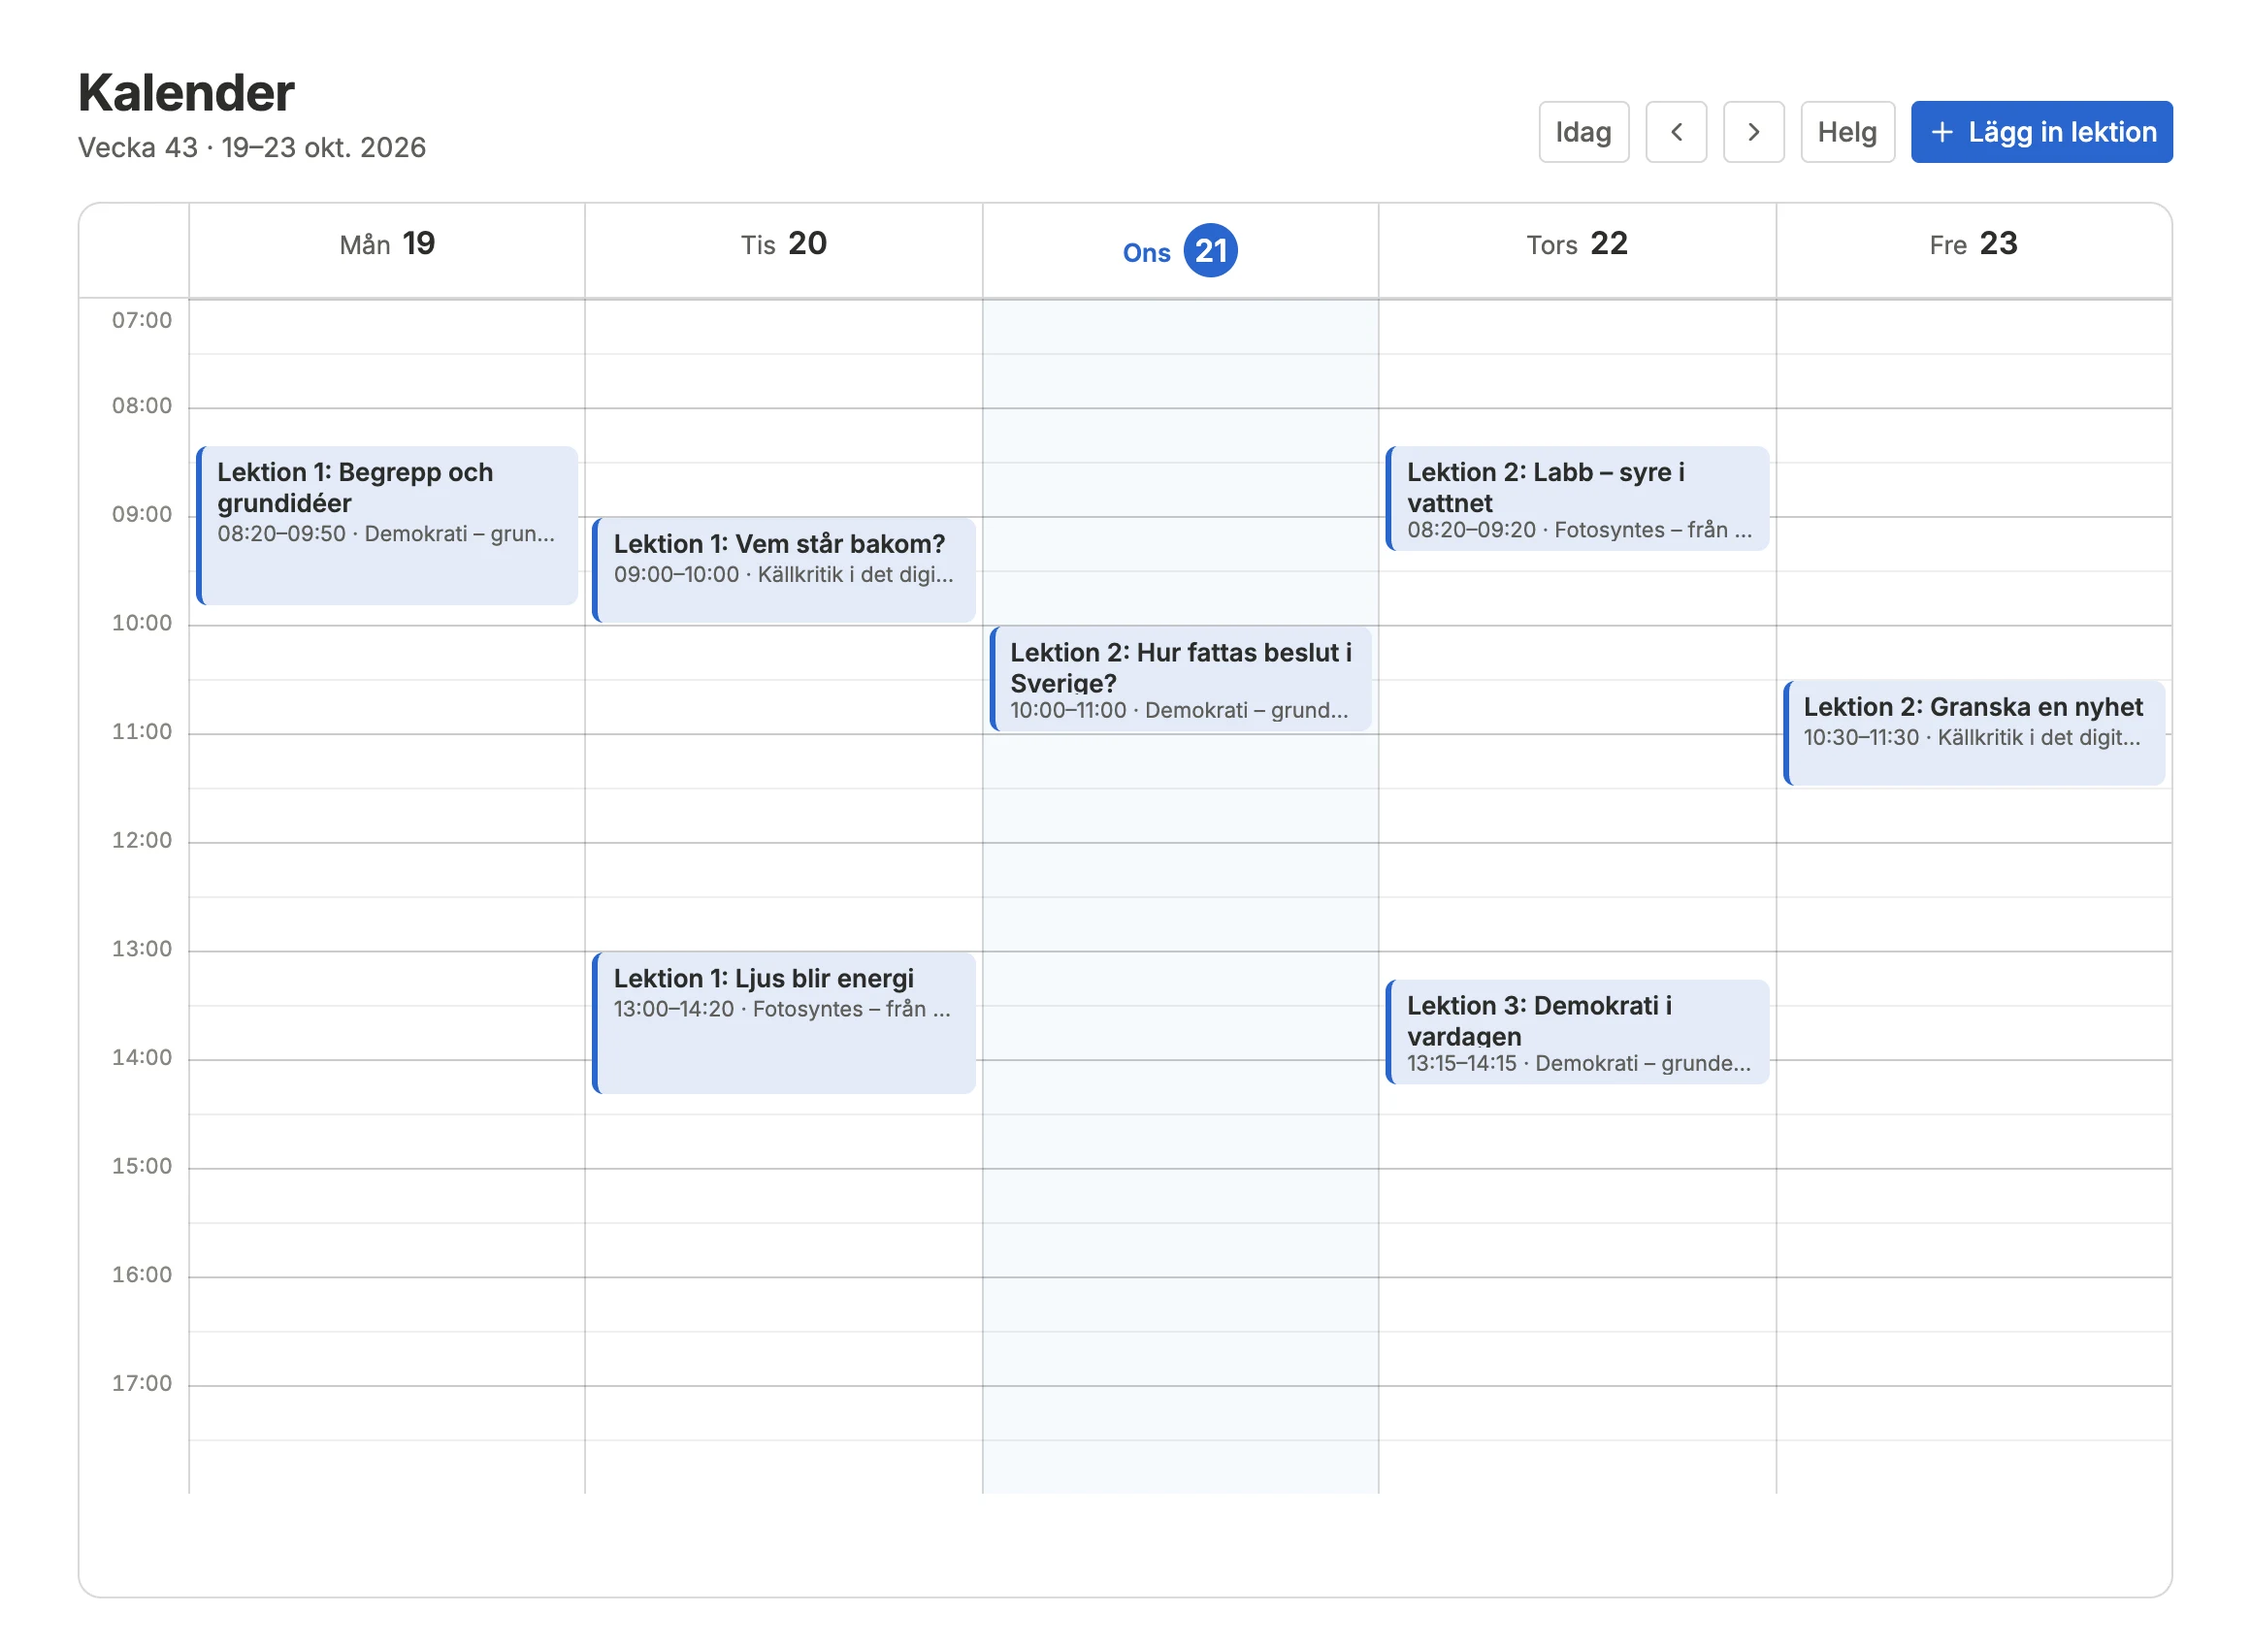
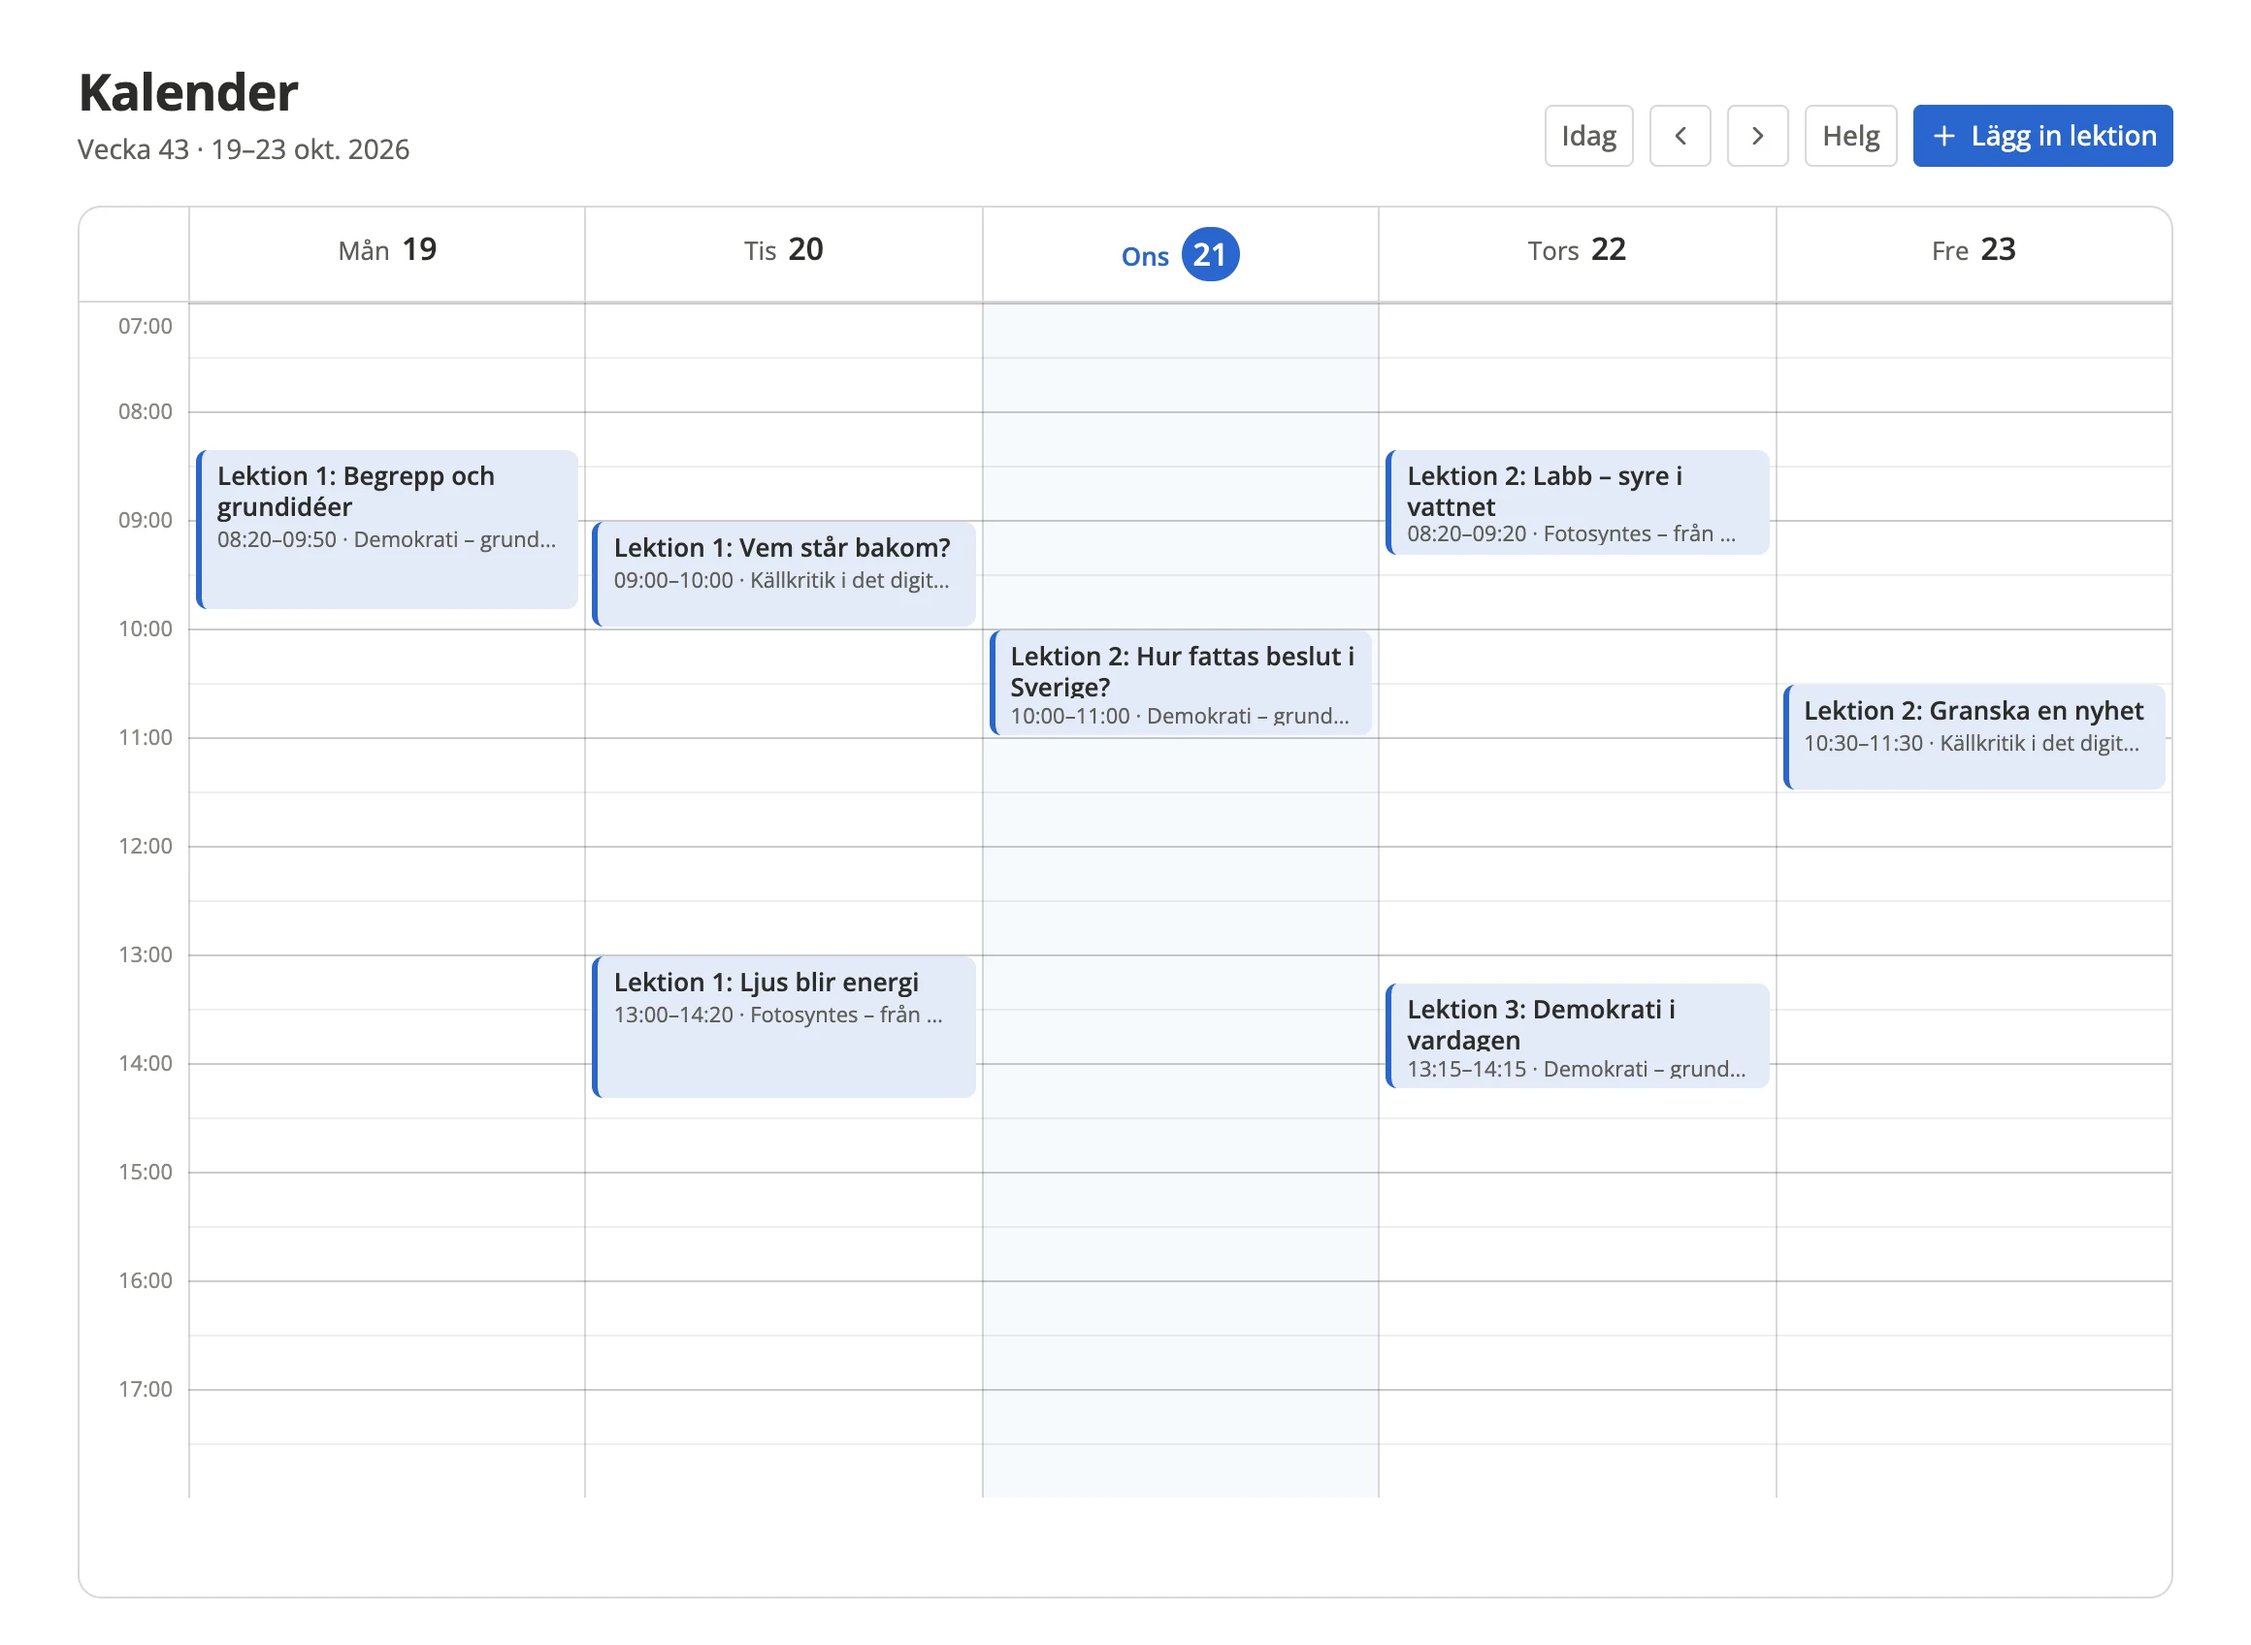
Try Open Sans as the app font
Every page loads Open Sans (same weights as before) and
--font-family-base uses it. Revert this commit to go back to Inter.

diff --git a/landing.html b/landing.html
@@ -10,7 +10,7 @@
   <link rel="apple-touch-icon" href="apple-touch-icon.png" />
   <link rel="preconnect" href="https://fonts.googleapis.com" />
   <link rel="preconnect" href="https://fonts.gstatic.com" crossorigin />
-  <link href="https://fonts.googleapis.com/css2?family=Inter:wght@400;500;600;700;800&family=Pacifico&display=swap" rel="stylesheet" />
+  <link href="https://fonts.googleapis.com/css2?family=Open+Sans:wght@400;500;600;700;800&family=Pacifico&display=swap" rel="stylesheet" />
   <link rel="stylesheet" href="tokens.css" />
   <link rel="stylesheet" href="theme.css" />
   <link rel="stylesheet" href="landing.css" />

diff --git a/login.html b/login.html
@@ -9,7 +9,7 @@
   <link rel="apple-touch-icon" href="apple-touch-icon.png" />
   <link rel="preconnect" href="https://fonts.googleapis.com" />
   <link rel="preconnect" href="https://fonts.gstatic.com" crossorigin />
-  <link href="https://fonts.googleapis.com/css2?family=Inter:wght@400;500;600;700&family=Pacifico&display=swap" rel="stylesheet" />
+  <link href="https://fonts.googleapis.com/css2?family=Open+Sans:wght@400;500;600;700&family=Pacifico&display=swap" rel="stylesheet" />
   <link rel="stylesheet" href="tokens.css" />
   <link rel="stylesheet" href="theme.css" />
   <link rel="stylesheet" href="login.css" />

diff --git a/calendar.html b/calendar.html
@@ -9,7 +9,7 @@
   <link rel="apple-touch-icon" href="apple-touch-icon.png" />
   <link rel="preconnect" href="https://fonts.googleapis.com" />
   <link rel="preconnect" href="https://fonts.gstatic.com" crossorigin />
-  <link href="https://fonts.googleapis.com/css2?family=Inter:wght@400;500;600;700&display=swap" rel="stylesheet" />
+  <link href="https://fonts.googleapis.com/css2?family=Open+Sans:wght@400;500;600;700&display=swap" rel="stylesheet" />
   <link rel="stylesheet" href="tokens.css" />
   <link rel="stylesheet" href="styles.css" />
   <link rel="stylesheet" href="theme.css" />

diff --git a/feedbackboard.html b/feedbackboard.html
@@ -9,7 +9,7 @@
   <link rel="apple-touch-icon" href="apple-touch-icon.png" />
   <link rel="preconnect" href="https://fonts.googleapis.com" />
   <link rel="preconnect" href="https://fonts.gstatic.com" crossorigin />
-  <link href="https://fonts.googleapis.com/css2?family=Inter:wght@400;500;600;700&display=swap" rel="stylesheet" />
+  <link href="https://fonts.googleapis.com/css2?family=Open+Sans:wght@400;500;600;700&display=swap" rel="stylesheet" />
   <link rel="stylesheet" href="tokens.css" />
   <link rel="stylesheet" href="styles.css" />
   <link rel="stylesheet" href="theme.css" />

diff --git a/index.html b/index.html
@@ -9,7 +9,7 @@
   <link rel="apple-touch-icon" href="apple-touch-icon.png" />
   <link rel="preconnect" href="https://fonts.googleapis.com" />
   <link rel="preconnect" href="https://fonts.gstatic.com" crossorigin />
-  <link href="https://fonts.googleapis.com/css2?family=Inter:wght@400;500;600;700&display=swap" rel="stylesheet" />
+  <link href="https://fonts.googleapis.com/css2?family=Open+Sans:wght@400;500;600;700&display=swap" rel="stylesheet" />
   <link rel="stylesheet" href="tokens.css" />
   <link rel="stylesheet" href="styles.css" />
   <link rel="stylesheet" href="theme.css" />

diff --git a/upplag.html b/upplag.html
@@ -9,7 +9,7 @@
   <link rel="apple-touch-icon" href="apple-touch-icon.png" />
   <link rel="preconnect" href="https://fonts.googleapis.com" />
   <link rel="preconnect" href="https://fonts.gstatic.com" crossorigin />
-  <link href="https://fonts.googleapis.com/css2?family=Inter:wght@400;500;600;700&display=swap" rel="stylesheet" />
+  <link href="https://fonts.googleapis.com/css2?family=Open+Sans:wght@400;500;600;700&display=swap" rel="stylesheet" />
   <link rel="stylesheet" href="tokens.css" />
   <link rel="stylesheet" href="styles.css" />
   <link rel="stylesheet" href="theme.css" />

diff --git a/tokens.css b/tokens.css
@@ -73,7 +73,7 @@
   --opacity-hover:    0.05;
 
   /* ── Typography ── */
-  --font-family-base: Inter, system-ui, sans-serif;
+  --font-family-base: 'Open Sans', system-ui, sans-serif;
   --font-size-xs:   11px;
   --font-size-sm:   12px;
   --font-size-base: 13px;
